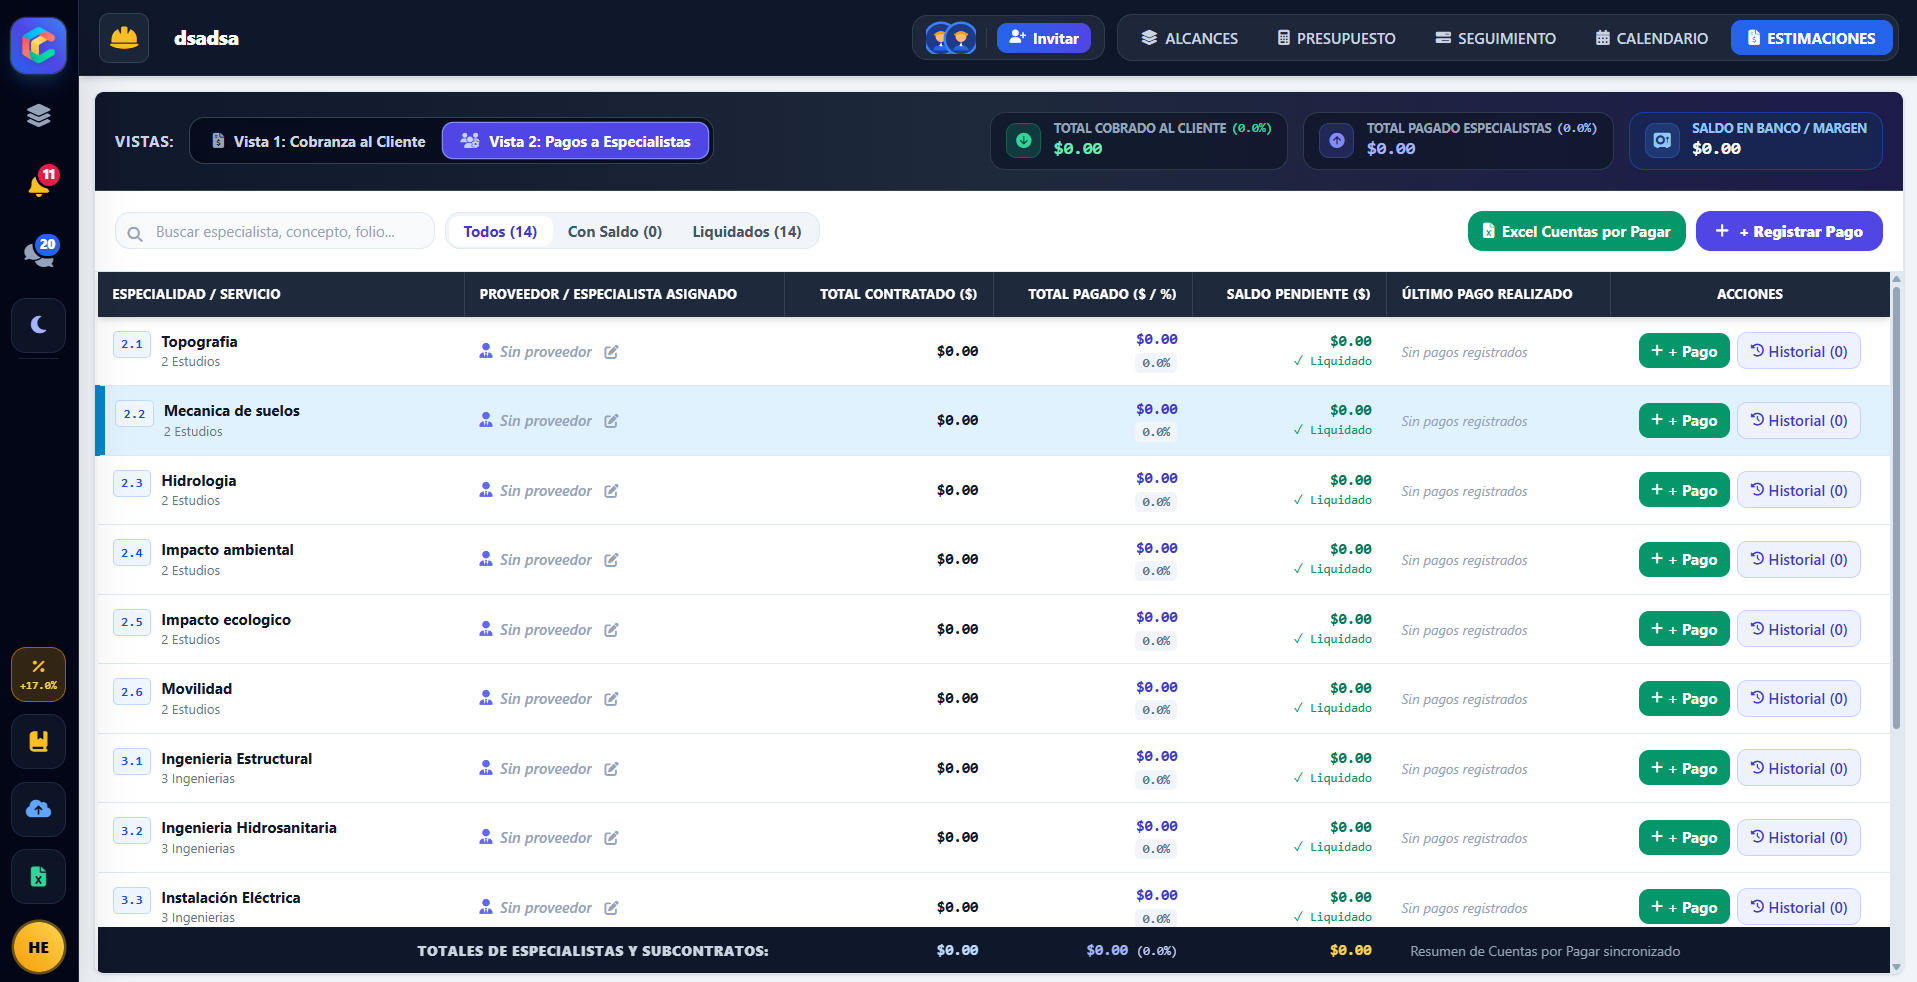
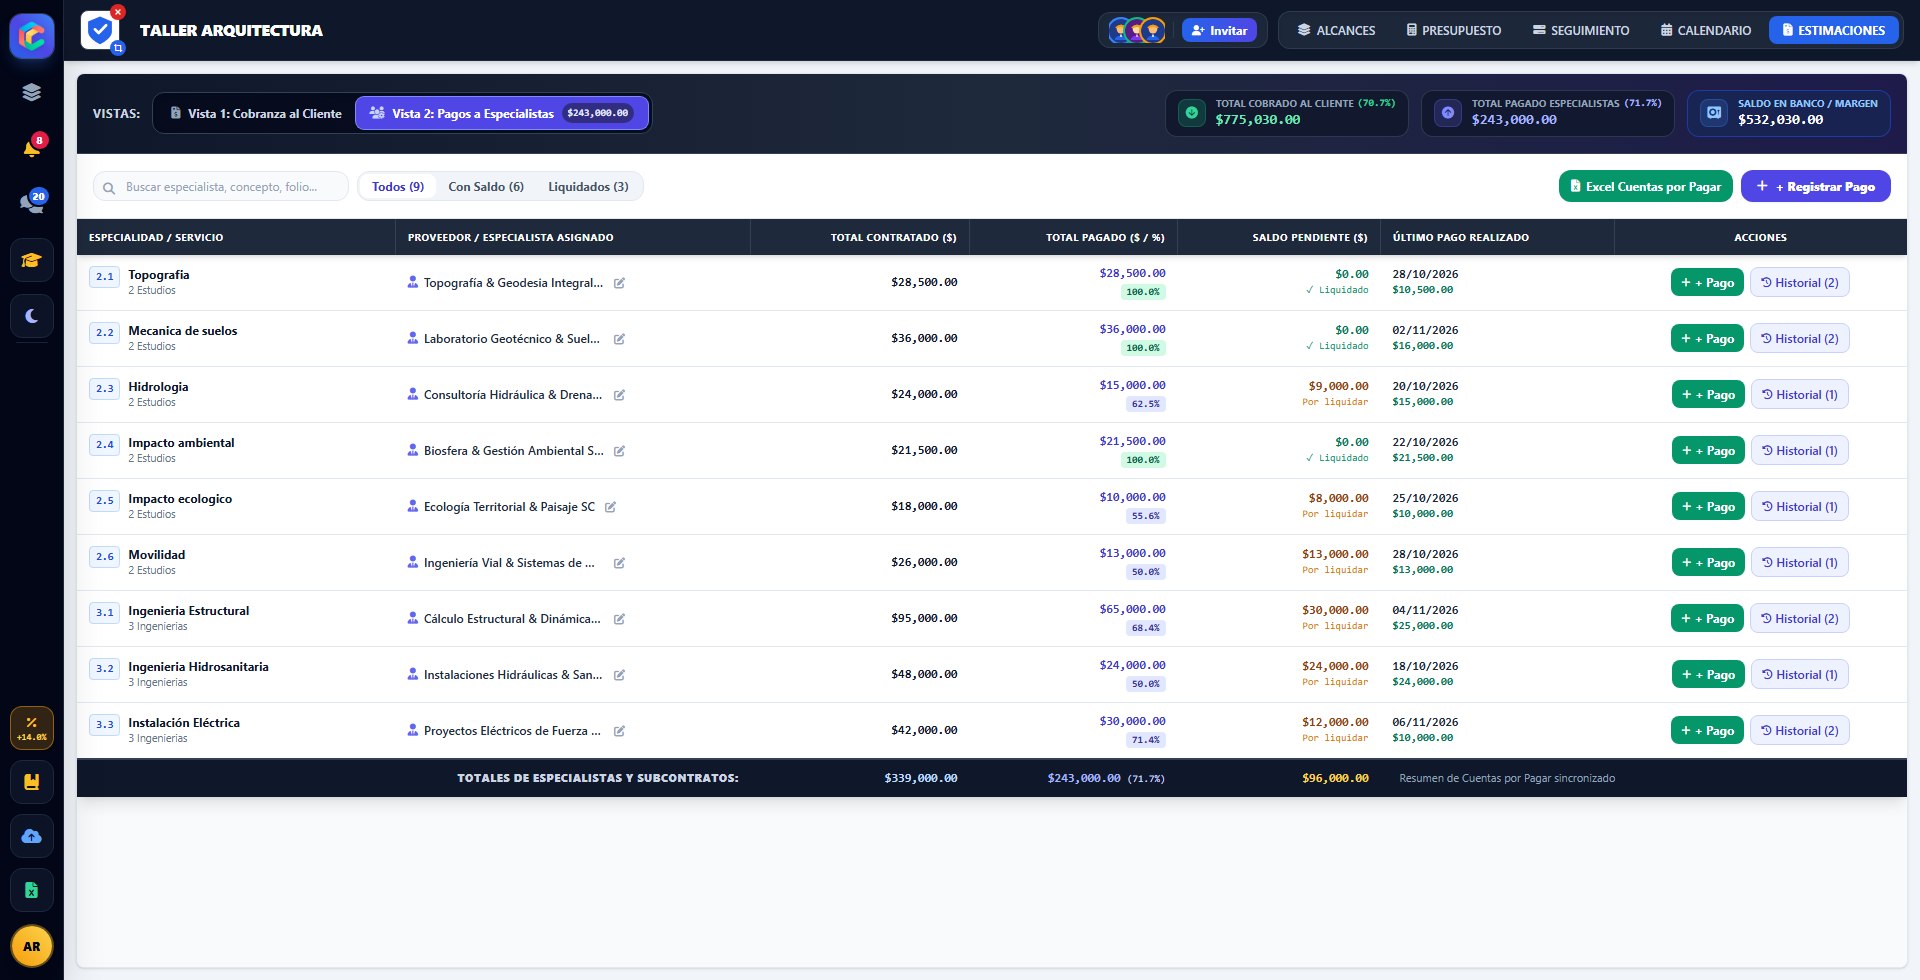
Actualizar imagen Fase 03 Pagos a Especialistas con cotizaciones, montos contratados, pagos realizados y proveedores

diff --git a/index.html b/index.html
@@ -218,8 +218,8 @@
 
         <!-- Columna 3: Pagos a Especialistas -->
         <div class="lumion-slice-col flex-1 relative group cursor-pointer overflow-hidden border-r border-white/10"
-             onclick="openShowcaseLightbox('assets/images/showcase/hero-app-especialistas.png', 'Cubikar Arquitectura &bull; Fase 03: Pagos a Especialistas')">
-          <img src="assets/images/showcase/hero-app-especialistas.png" alt="Pagos a Especialistas" class="w-full h-full object-cover object-left-top transition-transform duration-700">
+             onclick="openShowcaseLightbox('assets/images/showcase/hero-app-especialistas.png?v=20261115_especialistas_activo', 'Cubikar Arquitectura &bull; Fase 03: Pagos a Especialistas')">
+          <img src="assets/images/showcase/hero-app-especialistas.png?v=20261115_especialistas_activo" alt="Pagos a Especialistas" class="w-full h-full object-cover object-left-top transition-transform duration-700">
           <div class="absolute inset-0 bg-gradient-to-t from-black/90 via-black/30 to-black/10 group-hover:from-black/60 group-hover:via-transparent group-hover:to-transparent transition-all duration-500 pointer-events-none"></div>
           <div class="absolute top-4 right-4 opacity-0 group-hover:opacity-100 transition-opacity duration-300 pointer-events-none z-20">
             <span class="inline-flex items-center gap-1.5 px-3 py-1 rounded-full bg-slate-950/80 backdrop-blur-md border border-cyan-500/30 text-cyan-300 text-[10px] font-semibold shadow-lg">
